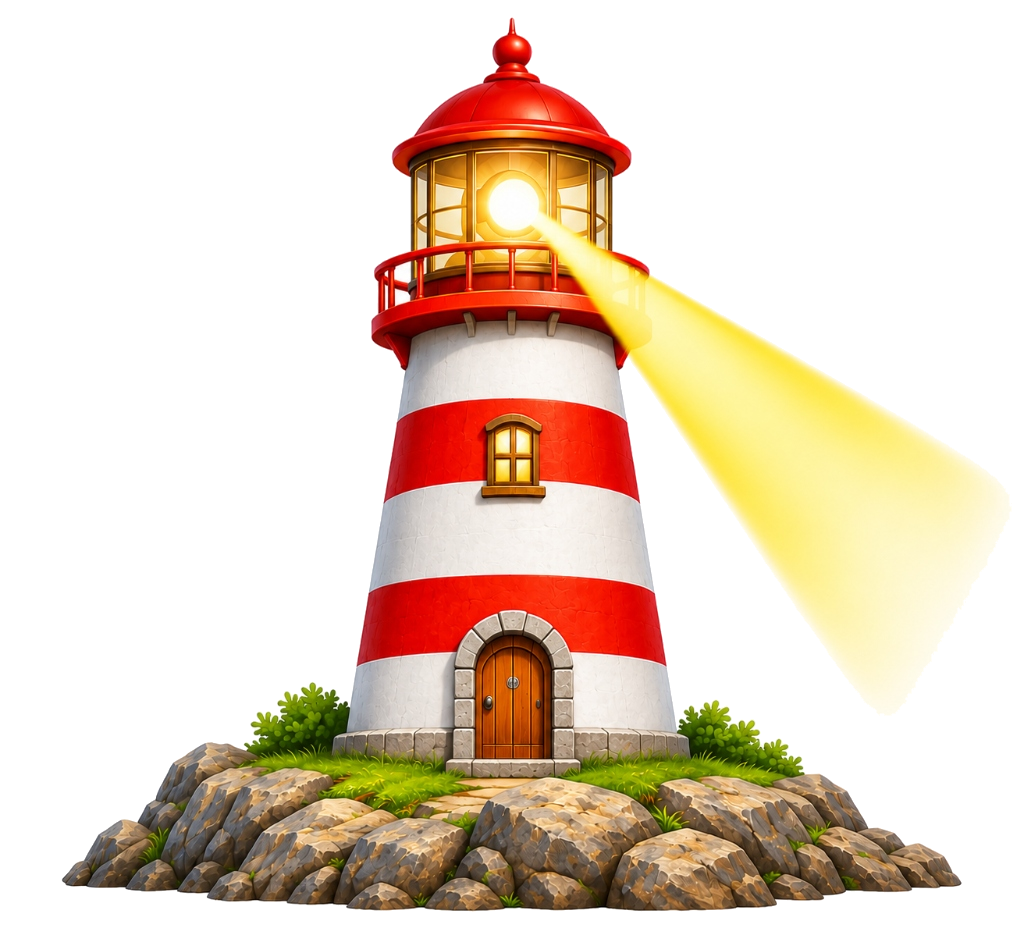
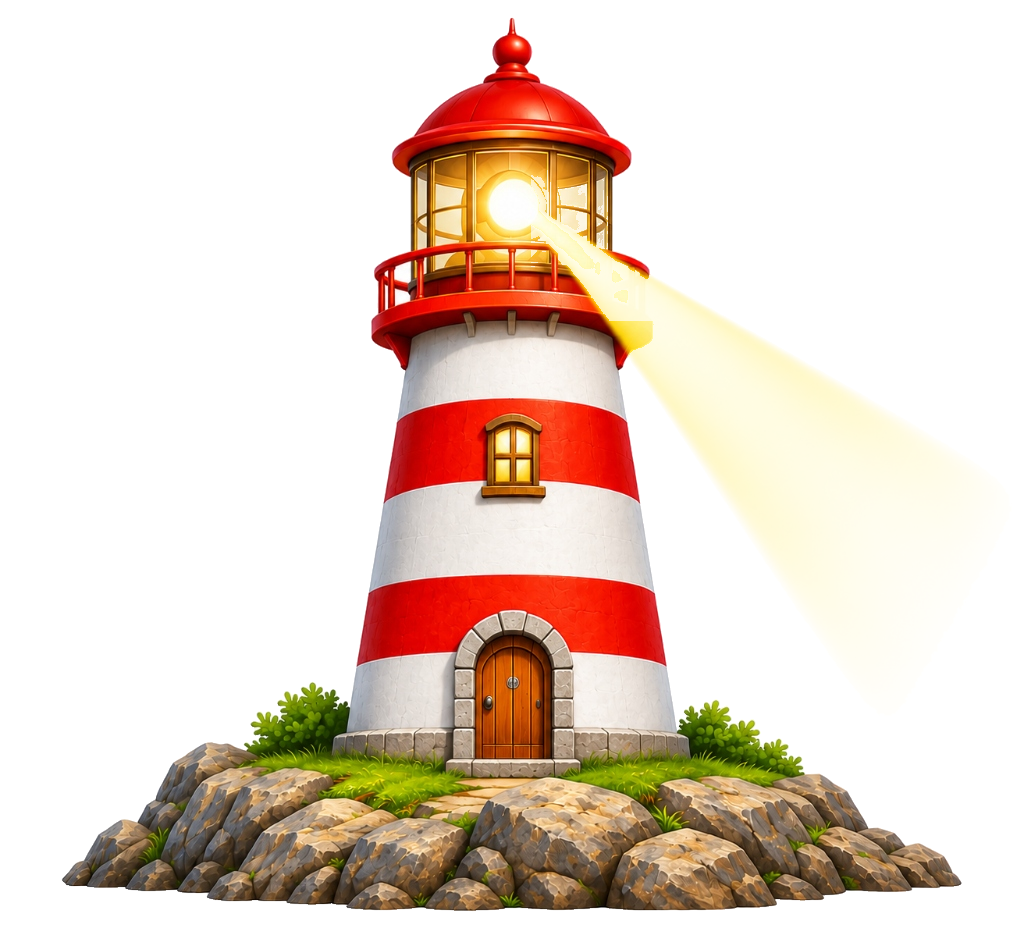
feat(faro): luz traslucida con transparencia gradual, eliminando el amarillo pleno opaco

Changed region(s): [[0.5, 0.1861, 1.0, 0.7444]]

diff --git a/mirror_lighthouse.js b/mirror_lighthouse.js
@@ -141,11 +141,11 @@
     // Pre-cargar inmediatamente todas las imágenes y locuciones de la sesión
     try {
       // Pre-cargar imágenes de alta resolución del faro y barquitos
-    getCachedImg('assets/faro.png');
-    getCachedImg('assets/faro_luz_barco1.png');
-    getCachedImg('assets/faro_luz_barco2.png');
-    getCachedImg('assets/barco.png');
-    getCachedImg('assets/barco_oscuro.png');
+    getCachedImg('assets/faro.png?v=313');
+    getCachedImg('assets/faro_luz_barco1.png?v=313');
+    getCachedImg('assets/faro_luz_barco2.png?v=313');
+    getCachedImg('assets/barco.png?v=313');
+    getCachedImg('assets/barco_oscuro.png?v=313');
 
     MirrorGame.cases.forEach(mc => {
         getCachedImg(mc.targetImage);
@@ -319,12 +319,12 @@
     }
 
     // 3. El Faro en el horizonte (donde se separa el agua y el cielo)
-    let faroSrc = 'assets/faro.png';
+    let faroSrc = 'assets/faro.png?v=313';
     if (MirrorGame.selectedBoat) {
       if (MirrorGame.selectedBoat === MirrorGame.boats[0]) {
-        faroSrc = 'assets/faro_luz_barco1.png';
+        faroSrc = 'assets/faro_luz_barco1.png?v=313';
       } else if (MirrorGame.selectedBoat === MirrorGame.boats[1]) {
-        faroSrc = 'assets/faro_luz_barco2.png';
+        faroSrc = 'assets/faro_luz_barco2.png?v=313';
       }
     }
 
@@ -379,7 +379,7 @@
     MirrorGame.boats.forEach(boat => {
       const bobY = boat.y + Math.sin(MirrorGame.time * 2.5 + boat.waveOffset) * 5;
       const isLit = (boat === MirrorGame.selectedBoat);
-      const boatImgSrc = isLit ? 'assets/barco.png' : 'assets/barco_oscuro.png';
+      const boatImgSrc = isLit ? 'assets/barco.png?v=313' : 'assets/barco_oscuro.png?v=313';
       const boatImg = getCachedImg(boatImgSrc);
 
       ctx.save();
